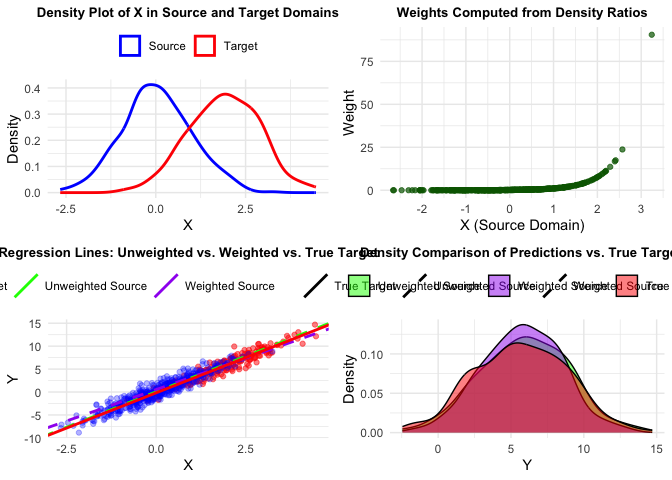
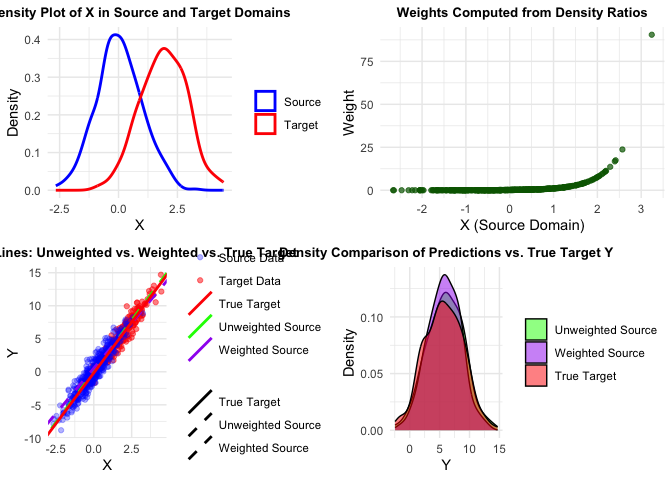
readjusted plot

diff --git a/toy_example.md b/toy_example.md
@@ -153,8 +153,7 @@ density_plot <- ggplot() +
       face = "bold",
       hjust = 0.5
     ),
-    legend.title = element_blank(),
-    legend.position = "top"
+    legend.title = element_blank()
   )
 ```
 
@@ -177,8 +176,7 @@ weights_plot <- ggplot(source_data, aes(x = X, y = weight)) +
       size = 10,         # Adjusted size for better visibility
       face = "bold",
       hjust = 0.5
-    ),
-    legend.position = "none"
+    )
   )
 
 # c. Regression Lines Plot
@@ -206,8 +204,7 @@ regression_plot <- ggplot() +
       face = "bold",
       hjust = 0.5
     ),
-    legend.title = element_blank(),
-    legend.position = "top"
+    legend.title = element_blank()
   )
 
 # d. Density Plot of Predictions vs. True Target
@@ -243,7 +240,6 @@ density_comparison_plot <- ggplot(predictions_melted, aes(x = Y, fill = Model)) 
       hjust = 0.5
     ),
     legend.title = element_blank(),
-    legend.position = "top"
   )
 
 # Arrange the plots in a 2x2 grid
@@ -254,60 +250,8 @@ grid.arrange(
 )
 ```
 
-![](toy_example_files/figure-gfm/unnamed-chunk-1-1.png)<!-- -->
-
-``` r
-# 12. Compute KL Divergence between Prediction Distributions and True Target
-
-compute_KL_manual <- function(pred_density, true_density) {
-  # Ensure no zero values
-  pred_density <- pred_density + 1e-10
-  true_density <- true_density + 1e-10
-  
-  # Normalize to ensure they sum to 1
-  pred_density <- pred_density / sum(pred_density)
-  true_density <- true_density / sum(true_density)
-  
-  # Compute KL divergence
-  kl_div <- sum(pred_density * log2(pred_density / true_density))
-  
-  return(kl_div)
-}
-
-# Estimate densities for predictions and true target
-density_pred_unweighted <- density(pred_unweighted, from = min(target_data$Y), to = max(target_data$Y), n = 512)
-density_pred_weighted <- density(pred_weighted, from = min(target_data$Y), to = max(target_data$Y), n = 512)
-density_true_target <- density(target_data$Y, from = min(target_data$Y), to = max(target_data$Y), n = 512)
-
-# Normalize densities
-density_pred_unweighted_normalized <- density_pred_unweighted$y / sum(density_pred_unweighted$y)
-density_pred_weighted_normalized <- density_pred_weighted$y / sum(density_pred_weighted$y)
-density_true_target_normalized <- density_true_target$y / sum(density_true_target$y)
-
-# Compute KL divergence manually
-kl_unweighted_manual <- compute_KL_manual(density_pred_unweighted_normalized, density_true_target_normalized)
-kl_weighted_manual <- compute_KL_manual(density_pred_weighted_normalized, density_true_target_normalized)
-
-# Compile KL divergence results
-kl_results_manual <- data.frame(
-  Model = c("Unweighted Source", "Weighted Source"),
-  KL_Divergence = round(c(kl_unweighted_manual, kl_weighted_manual), 4)
-)
-
-print("KL Divergence computed manually:")
-```
-
-    ## [1] "KL Divergence computed manually:"
-
-``` r
-print(kl_results_manual)
-```
-
-    ##               Model KL_Divergence
-    ## 1 Unweighted Source        0.0092
-    ## 2   Weighted Source        0.0352
-
-# Non-parametric KDE
+![](toy_example_files/figure-gfm/unnamed-chunk-1-1.png)<!-- --> \#
+Non-parametric KDE
 
 When generating data:
 
